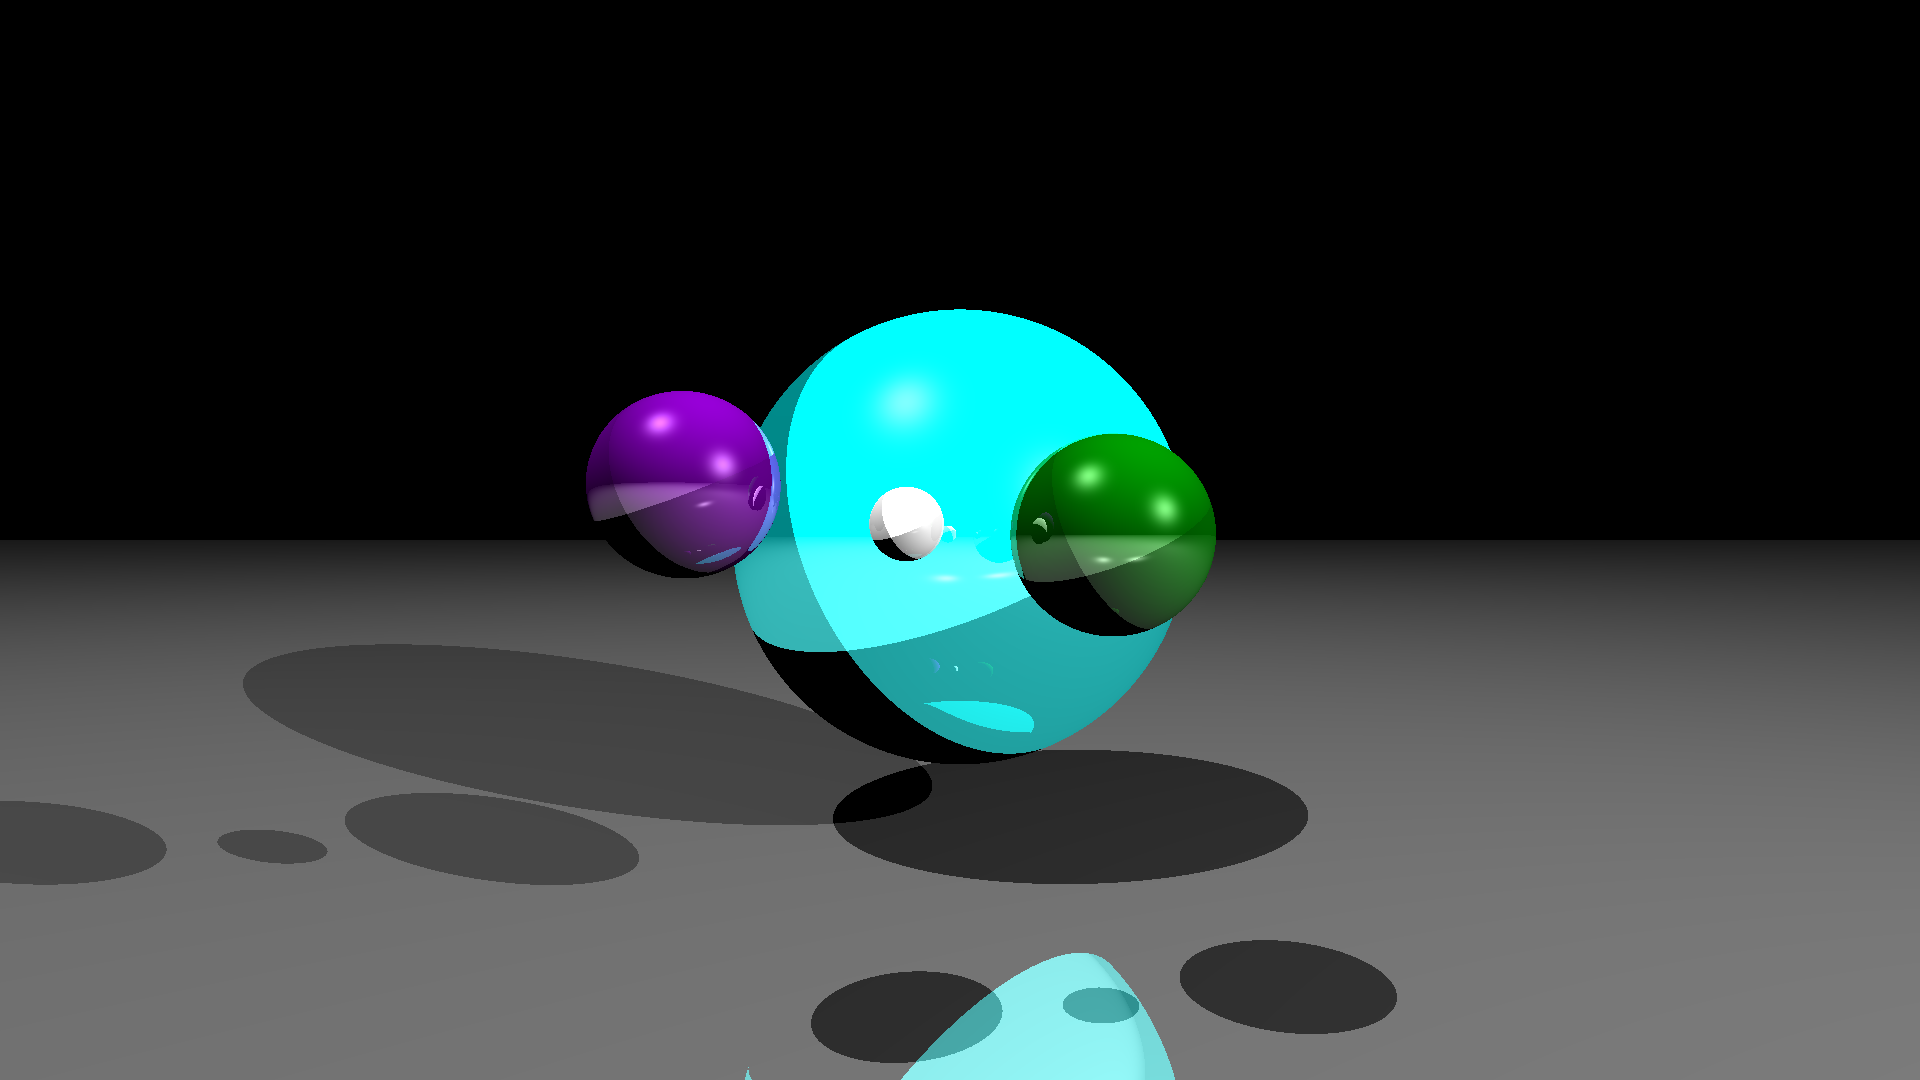
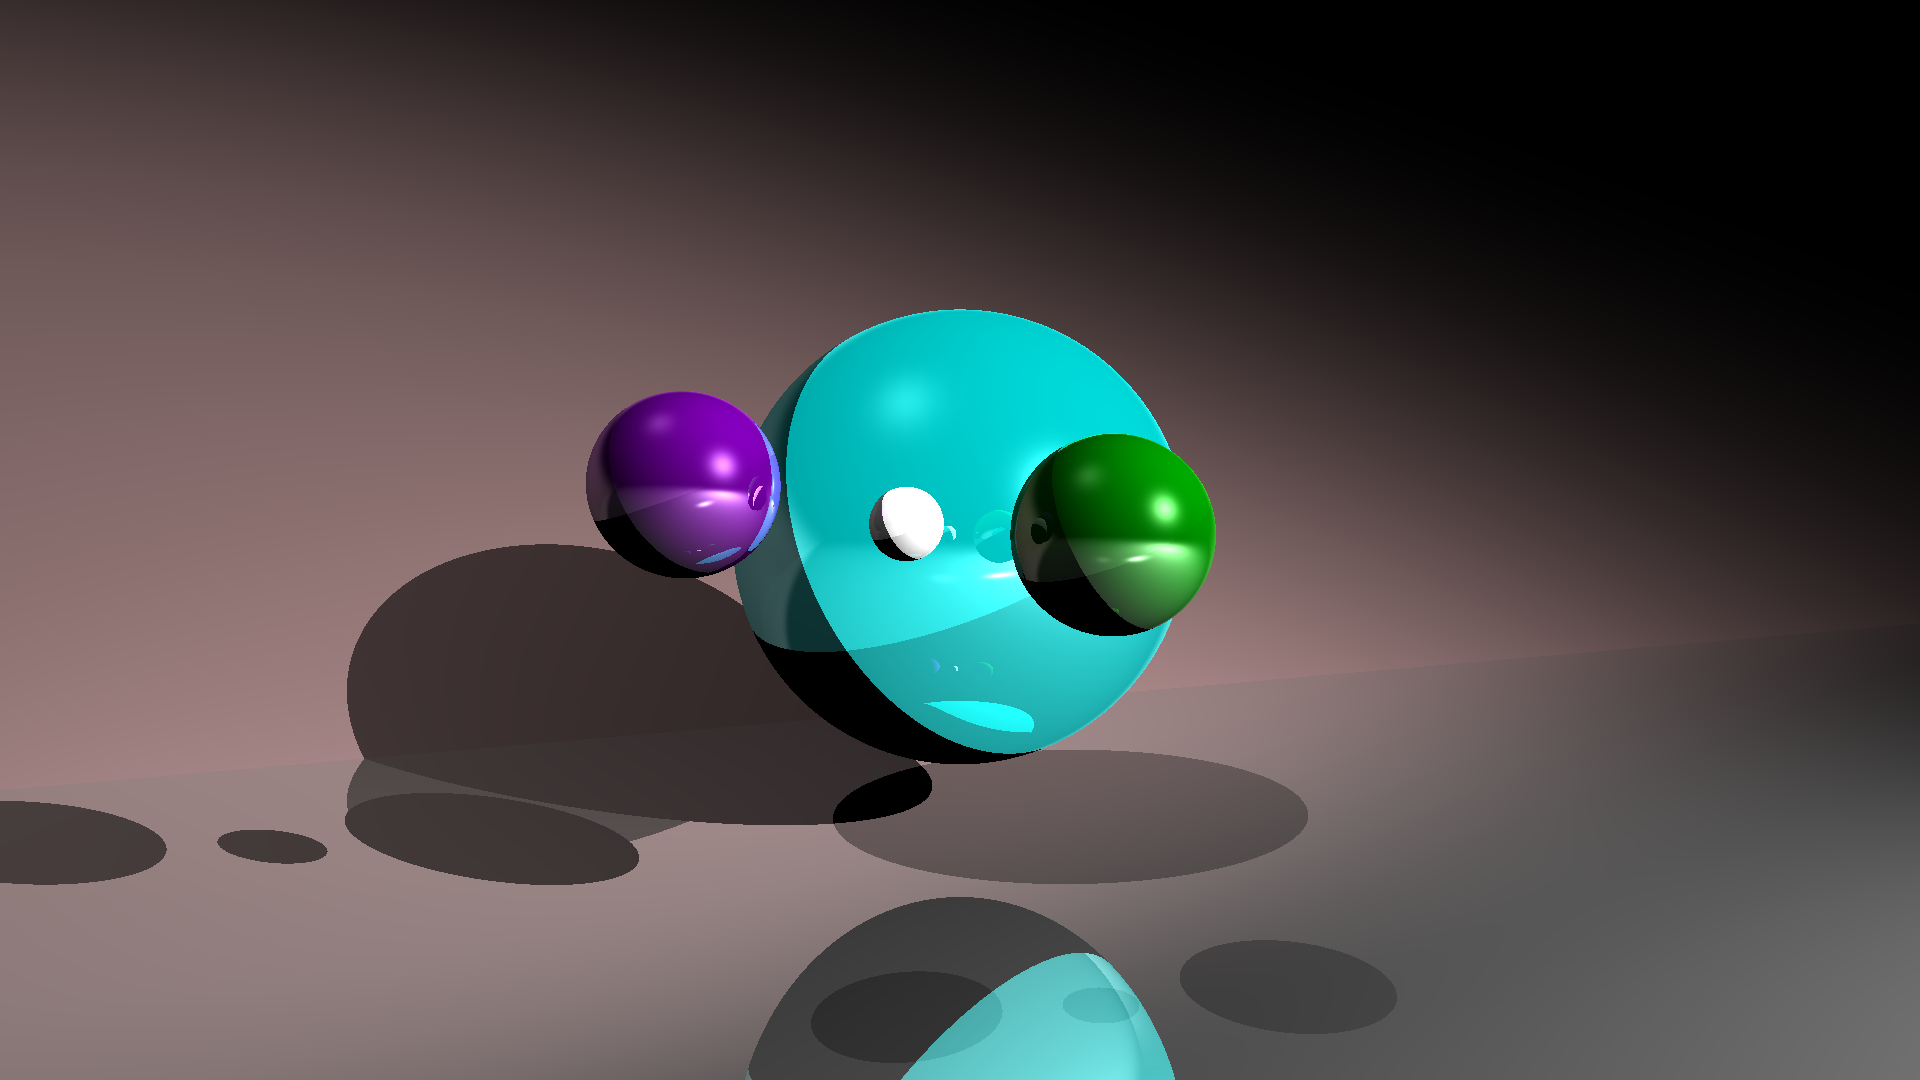
Add support for Reinhard tone mapping

diff --git a/scene.py b/scene.py
@@ -4,7 +4,7 @@ from raytracer import *
 from matplotlib.pyplot import imsave
 
 # screen setup
-width, height = 1920, 1080
+width, height = 192, 108
 aspect_ratio = width / height
 screen = {
     "left": -1,
@@ -28,9 +28,12 @@ objects = [
     Sphere((0, 0.01, -1), 0.75, cyan, shiny),
     Sphere((0.3, 0.01, 0.35), 0.2, green, shiny),
     Sphere((-0.1, 0.03, 0.45), 0.07, white, matte),
-    Plane((0, 1, 0), -1, grey, shiny),
-    Plane((1, 3, 2), -10, soft_white, matte)
+    Plane((0, 1, 0), -1, grey, matte),
+    Plane((1, 3, 2), -10, orange, matte)
 ]
+
+def reinhard_tone_mapping(color):
+    return color / (1 + color)
 
 image = np.zeros((height, width, 3))
 
@@ -39,7 +42,7 @@ for i, y in enumerate(np.linspace(screen["top"], screen["bottom"], height)):
         color = np.zeros((3))
         for light in lights:
             color += raytrace(x, y, camera, screen["z"], reflection_depth, objects, light)
-        image[i, j] = np.clip(color, 0, 1)
+        image[i, j] = reinhard_tone_mapping(color)
 
     print(f"Progress: {round(i * 100 / height)}%")
 

diff --git a/materials.py b/materials.py
@@ -7,6 +7,7 @@ purple = Color(ambient = (0.07, 0, 0.1), diffuse = (0.7, 0, 1), specular = (1, 1
 white = Color(ambient = (1, 1, 1), diffuse = (1, 1, 1), specular = (1, 1, 1))
 soft_white = Color(ambient = (1, 0.8, 0.8), diffuse = (1, 0.8, 0.8), specular = (1, 1, 1))
 cyan = Color(ambient = (0, 1, 1), diffuse = (0, 0.1, 0.1), specular = (1, 1, 1))
+orange = Color(ambient=(1, 0.4, 0.28), diffuse=(1, 0.04, 0.028), specular=(1, 1, 1))
 
 # materials
 shiny = Material(luster = 100, reflectivity = 0.75)

diff --git a/raytracer.py b/raytracer.py
@@ -1,7 +1,7 @@
 import numpy as np
 
 ALPHA_AIR = 0.00001
-ATTENUATION_DISTANCE_SCALING = 15
+ATTENUATION_DISTANCE_SCALING = 25
 
 # computes a vector with length 1 in the direction of v
 def unit(v):
